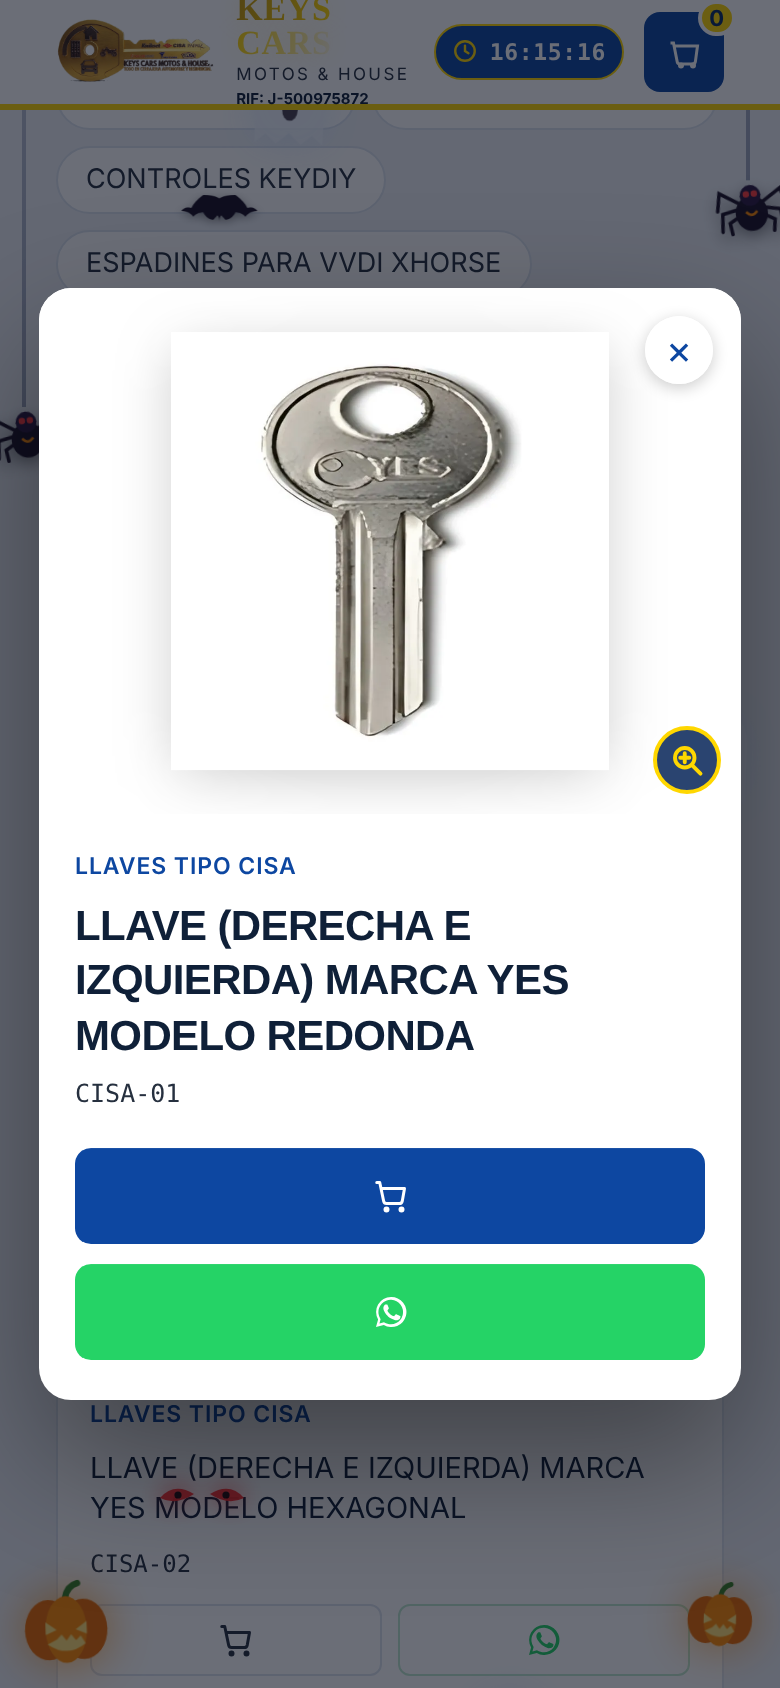
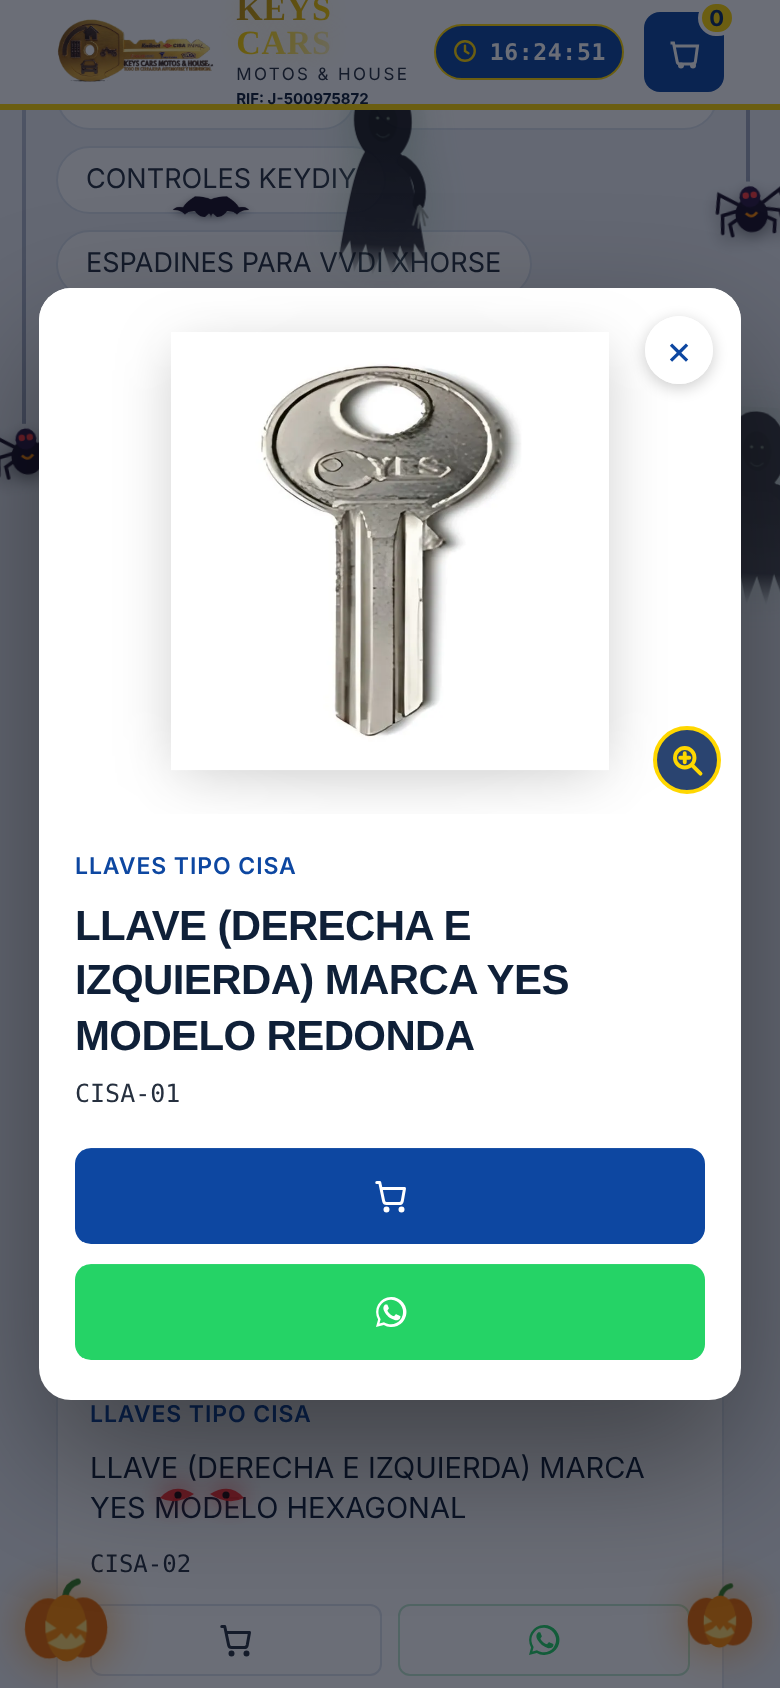
Halloween: bruja detallada en escoba y espectros encapuchados con túnicas rasgadas
Claude-Session: https://claude.ai/code/session_01SXQ2G67n1zthcvrG685rs1

diff --git a/halloween.js b/halloween.js
@@ -30,15 +30,15 @@
   '@keyframes hwBob{0%,100%{transform:translateY(0) rotate(-3deg)}50%{transform:translateY(-6px) rotate(3deg)}}' +
   '@keyframes hwGlow{0%,100%{opacity:.78}45%{opacity:1}70%{opacity:.6}}' +
   /* bruja en escoba con luna */
-  '.hw-witch{position:absolute;left:-190px;top:110px;width:150px;height:96px;opacity:0;animation:hwWitch 26s linear 3s infinite;filter:drop-shadow(0 0 14px rgba(255,200,80,.35));}' +
+  '.hw-witch{position:absolute;left:-290px;top:100px;width:220px;height:139px;opacity:0;animation:hwWitch 26s linear 3s infinite;filter:drop-shadow(0 0 16px rgba(255,200,80,.4));}' +
   '.hw-witch svg{width:100%;height:100%;animation:hwBobW 1.6s ease-in-out infinite;}' +
   '@keyframes hwBobW{0%,100%{transform:translateY(0) rotate(-2deg)}50%{transform:translateY(-9px) rotate(2deg)}}' +
   '@keyframes hwWitch{0%{transform:translate(0,0);opacity:0}3%{opacity:1}30%{transform:translate(45vw,60px)}55%{transform:translate(80vw,-20px);opacity:1}62%,100%{transform:translate(calc(100vw + 260px),20px);opacity:0}}' +
   /* fantasmas */
-  '.hw-ghost{position:absolute;bottom:-90px;width:54px;height:66px;opacity:0;animation:hwGhost var(--t,14s) ease-in-out var(--d,0s) infinite;}' +
-  '.hw-ghost svg{width:100%;height:100%;animation:hwWob 2.4s ease-in-out infinite;filter:drop-shadow(0 0 10px rgba(190,220,255,.7));}' +
-  '@keyframes hwGhost{0%{transform:translateY(0);opacity:0}12%{opacity:.8}50%{opacity:.55}85%{opacity:.8}100%{transform:translateY(-110vh);opacity:0}}' +
-  '@keyframes hwWob{0%,100%{transform:translateX(-12px) rotate(-5deg)}50%{transform:translateX(12px) rotate(5deg)}}' +
+  '.hw-ghost{position:absolute;bottom:-170px;width:66px;height:142px;opacity:0;animation:hwGhost var(--t,14s) ease-in-out var(--d,0s) infinite;}' +
+  '.hw-ghost svg{width:100%;height:100%;animation:hwWob 2.4s ease-in-out infinite;filter:drop-shadow(0 0 12px rgba(150,190,160,.55));}' +
+  '@keyframes hwGhost{0%{transform:translateY(0);opacity:0}12%{opacity:.9}50%{opacity:.7}85%{opacity:.9}100%{transform:translateY(-115vh);opacity:0}}' +
+  '@keyframes hwWob{0%,100%{transform:translateX(-14px) rotate(-3deg) skewX(-3deg)}50%{transform:translateX(14px) rotate(3deg) skewX(3deg)}}' +
   /* ojos rojos que miran desde la oscuridad */
   '.hw-eyes{position:absolute;bottom:92px;width:46px;height:14px;animation:hwBlink 7s infinite;filter:drop-shadow(0 0 6px #ff1a1a);}' +
   '@keyframes hwBlink{0%,42%,48%,100%{transform:scaleY(1);opacity:.95}45%{transform:scaleY(.08);opacity:.95}60%{opacity:0}80%{opacity:0}85%{opacity:.95}}' +
@@ -55,7 +55,7 @@
   '.hw-badge{display:flex;align-items:center;justify-content:center;gap:8px;margin:0 auto 10px;padding:5px 14px;width:max-content;max-width:100%;border-radius:999px;background:#1a1024;color:#ff9d1c;border:1px solid #ff8a00;font:800 12px/1.2 Inter,system-ui,sans-serif;letter-spacing:.06em;text-transform:uppercase;}' +
   '.hw-badge svg{width:16px;height:16px;flex:none;}' +
   '.hw-on .reel{box-shadow:inset 0 0 14px rgba(255,138,0,.35);}' +
-  '@media(max-width:480px){.hw-witch{width:104px;height:67px;top:96px}.hw-ghost{width:42px;height:52px}.hw-web{width:84px;height:84px}.hw-pumpkin{width:46px;height:43px}.hw-pumpkin.hw-p2{width:36px;height:34px}.hw-spider.hw-s3{display:none}.hw-spider{width:36px;margin-left:-18px}.hw-spider svg{width:36px;height:29px}}' +
+  '@media(max-width:480px){.hw-witch{width:150px;height:95px;top:92px}.hw-ghost{width:46px;height:99px}.hw-web{width:84px;height:84px}.hw-pumpkin{width:46px;height:43px}.hw-pumpkin.hw-p2{width:36px;height:34px}.hw-spider.hw-s3{display:none}.hw-spider{width:36px;margin-left:-18px}.hw-spider svg{width:36px;height:29px}}' +
   '@media(prefers-reduced-motion:reduce){.hw-layer *,.hw-on .game-panel{animation:none!important}.hw-bat,.hw-witch,.hw-ghost,.hw-flash{display:none}.hw-spider{transform:translateY(60px)}}';
 
   var st = document.createElement('style'); st.textContent = css; document.head.appendChild(st);
@@ -65,8 +65,8 @@
   var pumpkinSvg = '<svg viewBox="0 0 58 54" aria-hidden="true"><path d="M29 11c1-5 4-8 8-9" stroke="#3b7d23" stroke-width="4" stroke-linecap="round" fill="none"/><ellipse cx="18" cy="31" rx="15" ry="19" fill="#e86a00"/><ellipse cx="40" cy="31" rx="15" ry="19" fill="#e86a00"/><ellipse cx="29" cy="31" rx="13" ry="21" fill="#ff8a00"/><g class="hw-glow" fill="#ffe27a"><path d="M16 26l7 5-7 3z"/><path d="M42 26l-7 5 7 3z"/><path d="M17 40q12 9 24 0l-3-5-3 3-3-4-3 4-3-4-3 3z"/></g></svg>';
   var webSvg = '<svg viewBox="0 0 120 120" aria-hidden="true" fill="none" stroke="#ffffff" stroke-width="1.2" stroke-linecap="round"><path d="M0 0L120 0M0 0L0 120M0 0L100 100M0 0L110 45M0 0L45 110"/><path d="M26 0Q22 22 0 26M52 0Q44 44 0 52M80 0Q64 64 0 80M108 0Q86 86 0 108"/></svg>';
 
-  var witchSvg = '<svg viewBox="0 0 150 96" aria-hidden="true"><circle cx="112" cy="30" r="24" fill="#fff3c4" opacity=".92"/><circle cx="121" cy="25" r="20" fill="#0d2f6e" opacity=".0"/><g fill="#12091c"><path d="M6 70 L138 58 L139 63 L8 77z"/><path d="M0 66 l-0 14 l14-4z"/><path d="M62 48 C60 30 66 22 74 20 L82 4 L92 24 C96 26 100 30 100 34 L84 36 C84 44 90 52 96 58 L66 62z"/><path d="M52 38 C60 34 74 34 88 36 L88 42 C74 40 60 40 52 44z"/><path d="M64 60 C52 66 40 70 24 78 L30 84 C46 80 60 78 74 70z"/></g><path d="M74 20 L82 3 L88 19z" fill="#12091c"/><rect x="73" y="19" width="16" height="4" fill="#ff8a00"/><circle cx="81" cy="31" r="2.2" fill="#9cff4a"/><path d="M72 40 q4 6 10 4" stroke="#9cff4a" stroke-width="1.5" fill="none"/></svg>';
-  var ghostSvg = '<svg viewBox="0 0 54 66" aria-hidden="true"><path d="M27 2C13 2 5 13 5 27v36l7-6 7 6 8-7 8 7 7-6 7 6V27C49 13 41 2 27 2z" fill="#eef4ff" opacity=".92"/><ellipse cx="19" cy="26" rx="4" ry="6" fill="#1a1024"/><ellipse cx="35" cy="26" rx="4" ry="6" fill="#1a1024"/><ellipse cx="27" cy="41" rx="5" ry="7" fill="#1a1024"/></svg>';
+  var witchSvg = '<svg viewBox="0 0 220 140" aria-hidden="true"><defs><radialGradient id="hwM" cx="40%" cy="38%" r="70%"><stop offset="0" stop-color="#fffbe0"/><stop offset="1" stop-color="#f1d98a"/></radialGradient><linearGradient id="hwC" x1="1" y1="0" x2="0" y2="1"><stop offset="0" stop-color="#2b1247"/><stop offset="1" stop-color="#0c0614"/></linearGradient></defs><circle cx="172" cy="40" r="34" fill="url(#hwM)" opacity=".95"/><circle cx="160" cy="32" r="6" fill="#e6cf7e" opacity=".7"/><circle cx="182" cy="52" r="4.5" fill="#e6cf7e" opacity=".7"/><circle cx="176" cy="26" r="3" fill="#e6cf7e" opacity=".6"/><g><path d="M42 98 L2 80 L7 96 L0 108 L9 111 L4 124 L44 106z" fill="#7a5628"/><path d="M42 98 L6 90M42 101 L4 104M42 104 L8 118" stroke="#3b2812" stroke-width="1.4" fill="none"/><path d="M40 96 L196 84" stroke="#3a2412" stroke-width="5.5" stroke-linecap="round"/><path d="M38 93 L46 93 L46 107 L38 107z" fill="#4a3216"/></g><path d="M106 62C94 66 86 78 80 96C62 100 42 112 22 130C46 124 66 122 86 110C82 118 78 124 72 132C92 122 106 110 114 98L128 88C124 72 118 62 106 62z" fill="url(#hwC)"/><path d="M80 96C70 104 56 112 40 120" stroke="#0c0614" stroke-width="3" fill="none"/><path d="M118 70L138 88" stroke="#140a1f" stroke-width="8" stroke-linecap="round"/><circle cx="141" cy="89" r="5" fill="#8fbf6a"/><path d="M114 50C96 44 80 52 60 44C74 60 94 62 114 58z" fill="#d7d7e6" opacity=".95"/><path d="M114 54C98 54 86 64 66 62C82 70 102 70 114 62z" fill="#a9a9bd" opacity=".9"/><circle cx="125" cy="52" r="12" fill="#8fbf6a"/><path d="M134 50C146 52 150 60 142 66C142 60 138 58 133 58z" fill="#78a857"/><path d="M123 63Q128 72 140 68L134 62z" fill="#78a857"/><path d="M122 58q6 5 13 0" stroke="#2a1840" stroke-width="1.6" fill="none"/><circle cx="130" cy="49" r="2.4" fill="#e6ff3a"/><circle cx="130" cy="49" r="1" fill="#1a1024"/><path d="M104 42C104 36 112 36 124 36 138 36 146 38 146 42 134 44 114 44 104 42z" fill="#0b0613"/><path d="M110 38C112 22 122 12 130 4Q137 -3 150 5Q139 7 138 14C138 24 140 32 140 38z" fill="#0b0613"/><path d="M110 31L140 31L141 37L109 37z" fill="#7a2bd1"/><rect x="121" y="30" width="9" height="8" rx="1" fill="none" stroke="#f0c53a" stroke-width="1.8"/><circle cx="58" cy="118" r="2" fill="#bfff4a" opacity=".8"/><circle cx="40" cy="132" r="1.6" fill="#ffd84a" opacity=".8"/><circle cx="24" cy="116" r="1.4" fill="#bfff4a" opacity=".6"/></svg>';
+  var ghostSvg = '<svg viewBox="0 0 70 150" aria-hidden="true"><defs><linearGradient id="hwG" x1="0" y1="0" x2="0" y2="1"><stop offset="0" stop-color="#050408"/><stop offset=".75" stop-color="#0b0a10" stop-opacity=".92"/><stop offset="1" stop-color="#0b0a10" stop-opacity="0"/></linearGradient><radialGradient id="hwH" cx="50%" cy="30%" r="60%"><stop offset="0" stop-color="#9fb8a8" stop-opacity=".28"/><stop offset="1" stop-color="#9fb8a8" stop-opacity="0"/></radialGradient></defs><ellipse cx="35" cy="40" rx="34" ry="46" fill="url(#hwH)"/><path d="M35 3C20 3 13 17 13 32C13 43 17 51 22 57L48 57C53 51 57 43 57 32C57 17 50 3 35 3z" fill="#050408"/><ellipse cx="35" cy="33" rx="11" ry="15" fill="#000"/><circle cx="31" cy="30" r="1.2" fill="#a9c9a0" opacity=".55"/><circle cx="39" cy="30" r="1.2" fill="#a9c9a0" opacity=".55"/><path d="M30 42Q35 47 40 42" stroke="#1d2420" stroke-width="1.2" fill="none"/><path d="M22 55C12 72 8 100 1 140L10 124 13 148 22 126 27 150 35 128 42 150 48 126 56 148 59 124 69 140C62 100 58 72 48 55z" fill="url(#hwG)"/><path d="M50 62C60 68 66 80 62 94" stroke="#050408" stroke-width="9" stroke-linecap="round" fill="none"/><g stroke="#8d948a" stroke-width="1.5" stroke-linecap="round" fill="none"><path d="M62 96L58 110M63 97L62 112M64 96L67 110M63 95L69 104"/></g></svg>';
   var eyesSvg = '<svg viewBox="0 0 46 14" aria-hidden="true"><path d="M2 8 Q9 0 19 6 Q10 12 2 8z" fill="#ff2a2a"/><path d="M44 8 Q37 0 27 6 Q36 12 44 8z" fill="#ff2a2a"/><circle cx="11" cy="6.5" r="1.8" fill="#1a0000"/><circle cx="35" cy="6.5" r="1.8" fill="#1a0000"/></svg>';
   function ready(fn){ if(document.readyState !== 'loading') fn(); else document.addEventListener('DOMContentLoaded', fn); }
   ready(function(){
@@ -81,7 +81,7 @@
     });
     html += '<div class="hw-pumpkin">'+pumpkinSvg+'</div><div class="hw-pumpkin hw-p2">'+pumpkinSvg+'</div>';
     html += '<div class="hw-flash"></div><div class="hw-witch">'+witchSvg+'</div>';
-    [[8,'15s','-2s'],[30,'19s','-9s'],[58,'17s','-13s'],[84,'21s','-5s']].forEach(function(g){ html += '<div class="hw-ghost" style="left:'+g[0]+'%;--t:'+g[1]+';--d:'+g[2]+'"> '+ghostSvg+'</div>'; });
+    [[6,'17s','-2s'],[40,'22s','-11s'],[88,'19s','-6s']].forEach(function(g){ html += '<div class="hw-ghost" style="left:'+g[0]+'%;--t:'+g[1]+';--d:'+g[2]+'"> '+ghostSvg+'</div>'; });
     html += '<div class="hw-eyes" style="left:78px;animation-delay:-2s">'+eyesSvg+'</div><div class="hw-eyes" style="right:70px;animation-delay:-5s;transform:scale(.8)">'+eyesSvg+'</div>';
     L.innerHTML = html; document.body.appendChild(L);
 
